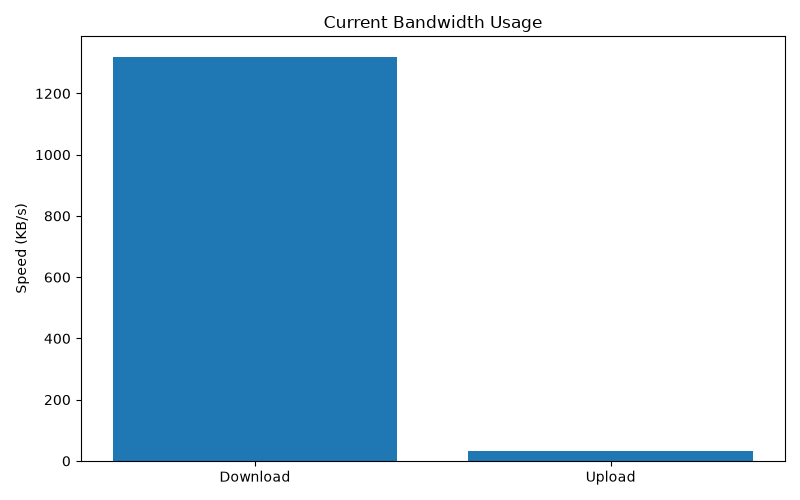
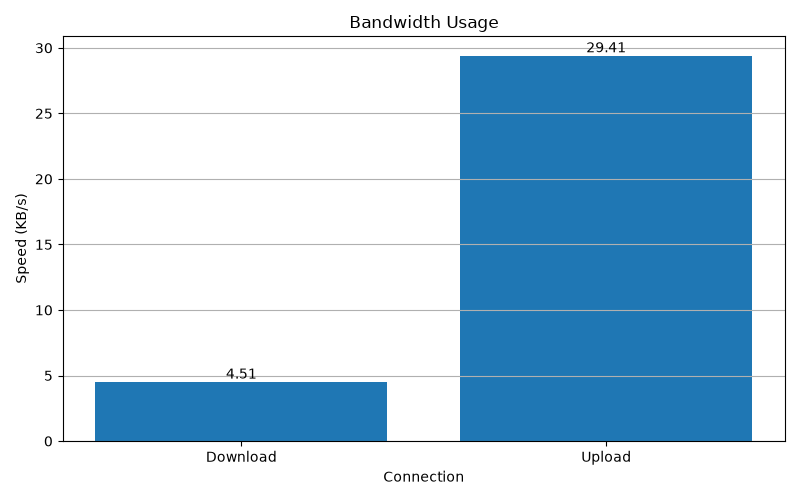
Fix bandwidth graph

diff --git a/graph.py b/graph.py
@@ -1,6 +1,8 @@
 import pandas as pd
 import matplotlib.pyplot as plt
 import os
+import psutil
+import time
 
 CSV_FILE = "data/traffic.csv"
 GRAPH_FOLDER = "static/graphs"
@@ -8,7 +10,11 @@ GRAPH_FOLDER = "static/graphs"
 # Create graph folder
 os.makedirs(GRAPH_FOLDER, exist_ok=True)
 
-# Read traffic data
+
+# =========================================================
+# READ TRAFFIC DATA
+# =========================================================
+
 df = pd.read_csv(CSV_FILE)
 
 # Make sure Packet Size is numeric
@@ -25,6 +31,7 @@ df["Packet Size"] = pd.to_numeric(
 df["Packet Number"] = range(1, len(df) + 1)
 
 plt.figure(figsize=(10, 5))
+
 plt.plot(
     df["Packet Number"],
     df["Packet Size"],
@@ -51,6 +58,7 @@ plt.close()
 protocol_counts = df["Protocol"].value_counts()
 
 plt.figure(figsize=(8, 5))
+
 plt.bar(
     protocol_counts.index,
     protocol_counts.values
@@ -80,6 +88,7 @@ destination_counts = (
 )
 
 plt.figure(figsize=(10, 5))
+
 plt.bar(
     destination_counts.index,
     destination_counts.values
@@ -110,6 +119,7 @@ protocol_traffic = (
 )
 
 plt.figure(figsize=(8, 5))
+
 plt.bar(
     protocol_traffic.index,
     protocol_traffic.values
@@ -128,13 +138,83 @@ plt.savefig(
 plt.close()
 
 
+# =========================================================
+# GRAPH 5 - BANDWIDTH USAGE
+# =========================================================
+
+print("Measuring current bandwidth...")
+
+# Get network counters before measurement
+before = psutil.net_io_counters()
+
+# Wait for 1 second
+time.sleep(1)
+
+# Get network counters after measurement
+after = psutil.net_io_counters()
+
+# Calculate speed in KB/s
+download_speed = (
+    after.bytes_recv - before.bytes_recv
+) / 1024
+
+upload_speed = (
+    after.bytes_sent - before.bytes_sent
+) / 1024
+
+
+plt.figure(figsize=(8, 5))
+
+labels = ["Download", "Upload"]
+values = [download_speed, upload_speed]
+
+bars = plt.bar(
+    labels,
+    values
+)
+
+plt.title("Bandwidth Usage")
+plt.xlabel("Connection")
+plt.ylabel("Speed (KB/s)")
+plt.grid(axis="y")
+
+# Show values above bars
+for bar, value in zip(bars, values):
+    plt.text(
+        bar.get_x() + bar.get_width() / 2,
+        bar.get_height(),
+        f"{value:.2f}",
+        ha="center",
+        va="bottom"
+    )
+
+plt.tight_layout()
+
+plt.savefig(
+    f"{GRAPH_FOLDER}/bandwidth_graph.png"
+)
+
+plt.close()
+
+
+# =========================================================
+# COMPLETION MESSAGE
+# =========================================================
+
 print("======================================")
 print("       GRAPH GENERATION COMPLETE")
 print("======================================")
+
 print("1. Packet Size Over Time       : OK")
 print("2. Protocol Distribution       : OK")
 print("3. Top 5 Destination IPs       : OK")
 print("4. Data Usage by Protocol      : OK")
+print("5. Bandwidth Usage             : OK")
+
+print()
+print(f"Download Speed : {download_speed:.2f} KB/s")
+print(f"Upload Speed   : {upload_speed:.2f} KB/s")
+
 print()
 print("Graphs saved in:")
 print("static/graphs/")
